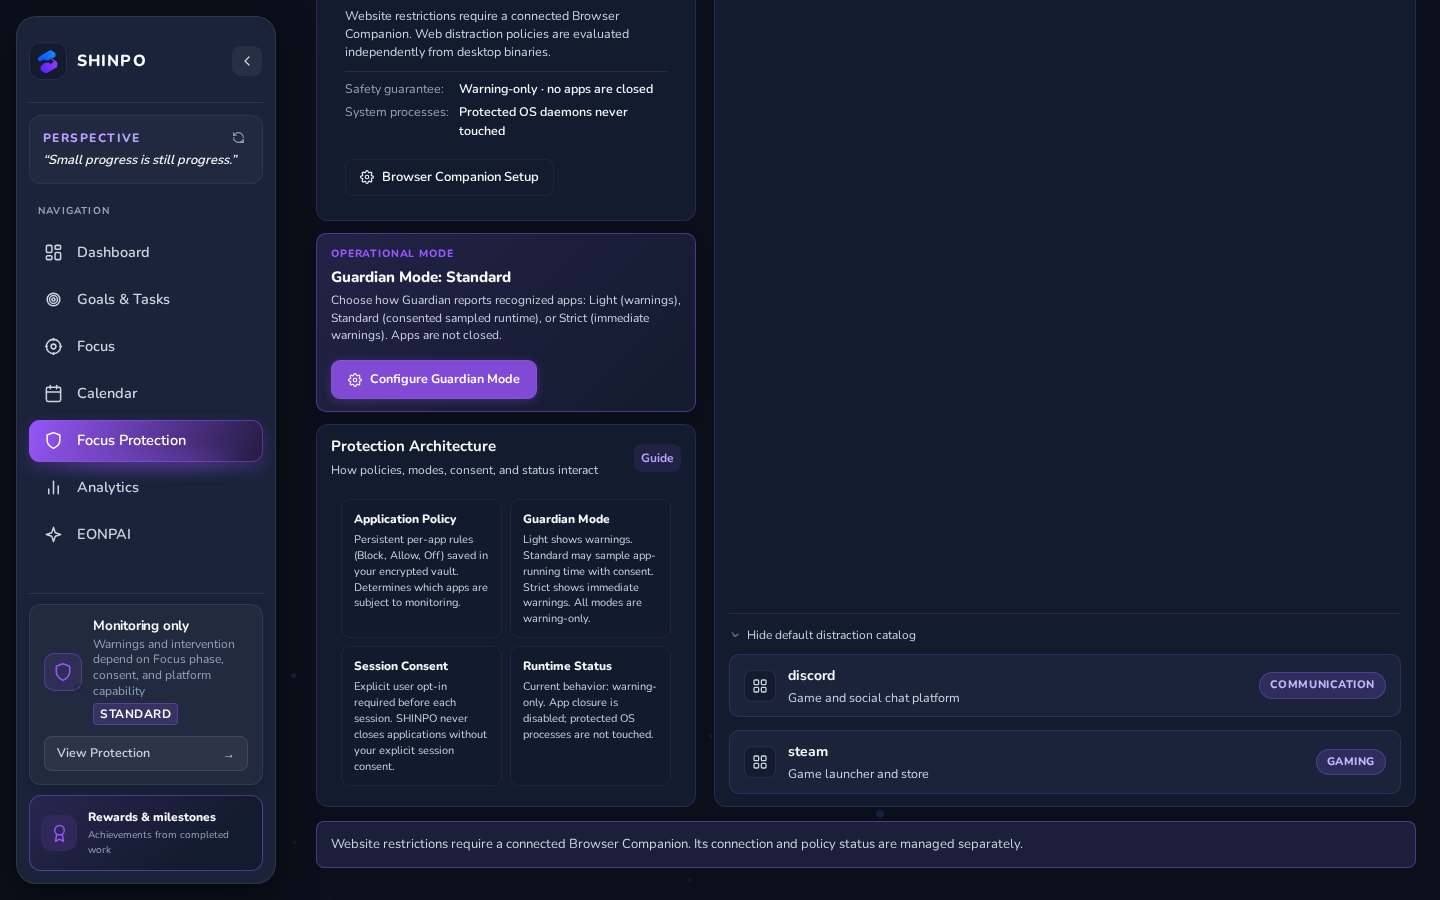
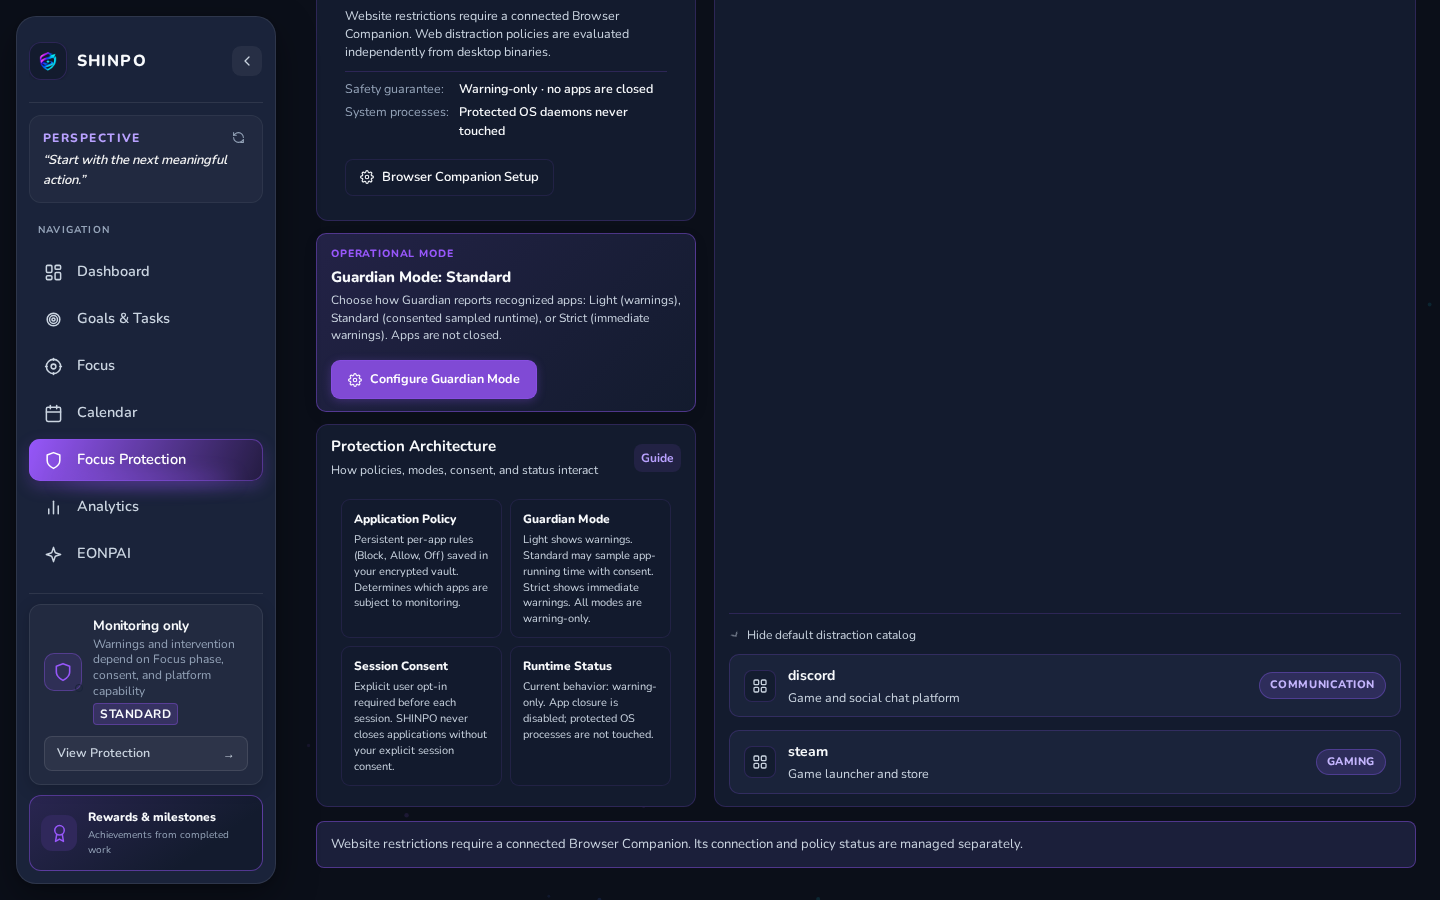
fix(ci): Install OSV-Scanner CLI and fix cargo-deny check arguments

Changed region(s): [[0.0, 0.1556, 0.1875, 0.6222], [0.0312, 0.0622, 0.0625, 0.0933]]

diff --git a/docs/qa/RELEASE_STATUS.md b/docs/qa/RELEASE_STATUS.md
@@ -53,14 +53,30 @@ To transition from **NO-GO** to **GO (Private Beta)**, the following gates must 
 
 ## 4. Hosted CI vs. Local Qualification
 
+### CI Job Results vs. Step Breakdown
+
+GitHub Actions CI (`.github/workflows/ci.yml`) is structured into three discrete jobs:
+
+| CI Job | Environment | Target & Responsibility | Current Status & Conclusion |
+| :--- | :--- | :--- | :---: |
+| **`desktop-linux`** | Ubuntu 24.04 | 19 discrete steps: Linux system dependencies, Rust 1.99.0 toolchain, `npm ci`, legacy backend verification, production npm audit, full dev npm audit log, `npm test`, `npm run lint`, `npm run build`, browser companion tests, Tauri bundle prep, Tauri Rust tests, strict Clippy, rustfmt, release desktop binary build, isolated native SQLCipher smoke test, Shield tests/Clippy/fmt, Browser Host tests/Clippy/fmt. | **PASS** |
+| **`desktop-windows`** | Windows 2025 | 18 discrete steps: MSVC C++ toolchain check, OpenSSL x64 vcpkg installation and environment linkage, `npm ci`, production npm audit, full dev npm audit log, `npm test`, `npm run lint`, `npm run build`, browser companion tests, Tauri bundle prep, Tauri Rust tests, strict Clippy, rustfmt, release desktop binary build, isolated native SQLCipher smoke test (`shinpo-desktop.exe --smoke-test`), Shield tests/Clippy/fmt, Browser Host tests/Clippy/fmt. | **PASS** |
+| **`security`** | Ubuntu 24.04 | 7 discrete steps: Full git history checkout, Gitleaks secret scan, Semgrep SAST scan, standalone OSV-Scanner CLI installation (`v1.9.2` with SHA256 checksum) and recursive dependency scan, toolchain setup & cargo-audit/cargo-deny installation, `cargo audit --deny unsound` across all three crate lockfiles, `cargo deny ... check bans sources`. | **ADVISORY FAILURE / NO-GO**<br>*(Genuine failure: `cargo audit --deny unsound` halts on transitive GLib `RUSTSEC-2024-0429`)* |
+
+### Verification Area Details
+
 | Verification Area | Hosted CI (GitHub Actions) | Local Host Environment | Notes |
 | :--- | :---: | :---: | :--- |
-| **Frontend TypeScript Build** | Verified (Ubuntu & Windows MSVC) | Verified (`tsc -b && vite build`) | Fixed Playwright TS2339 narrowing (`core-ui-repairs.spec.ts`). |
-| **Frontend Production Audit** | Verified (`npm audit --omit=dev`) | Verified (0 vulnerabilities) | Production bundle is 100% clean. |
-| **Frontend Dev Dependency Audit** | Documented in CI logs | Documented in `qa-security.mjs` | 39 advisories in dev/test tooling (`@wdio`, `puppeteer`, `eslint`). |
-| **Rust Tauri Core Tests** | Verified (Ubuntu & Windows MSVC) | Verified (85 passed, 0 failed) | Full encrypted storage & vault integration tests pass. |
-| **Rust Shield Daemon Tests** | Verified (Ubuntu) | Verified (51 lib, 40 main pass) | Platform interceptor and app discovery tests pass. |
-| **SQLCipher Cryptographic Integrity**| Not run in CI | Verified (HMAC tamper rejection pass)| Tampered ciphertext is rejected without plaintext fallback. |
+| **Frontend TypeScript Build** | Verified (Ubuntu & Windows MSVC jobs) | Verified (`tsc -b && vite build`) | Fixed Playwright TS2339 narrowing (`core-ui-repairs.spec.ts`). |
+| **Frontend Production Audit** | Verified (`npm audit --omit=dev --audit-level=high`) | Verified (0 vulnerabilities) | Production bundle is 100% clean across all jobs. |
+| **Frontend Dev Dependency Audit** | Documented in CI job logs | Documented in `qa-security.mjs` | 39 advisories in dev/test tooling (`@wdio`, `puppeteer`, `eslint`). |
+| **Rust Tauri Core Tests** | Verified (Ubuntu & Windows MSVC jobs) | Verified (85 passed, 0 failed) | Full encrypted storage & vault integration tests pass. |
+| **Rust Shield Daemon Tests** | Verified (Ubuntu & Windows MSVC jobs) | Verified (51 lib, 40 main pass) | Platform interceptor and app discovery tests pass. |
+| **Rust Browser Host Tests** | Verified (Ubuntu & Windows MSVC jobs) | Verified (9 passed, 0 failed) | Native messaging host framing & pairing tests pass. |
+| **Secret Scanning (Gitleaks)** | Verified in `security` job | Verified (`gitleaks dir --config .gitleaks.toml`) | 0 leaks found across repository. |
+| **Semgrep SAST** | Verified in `security` job | Not run locally | Scans rulesets `p/default`, `p/secrets`, `p/security-audit`. |
+| **OSV-Scanner** | Verified in `security` job (`osv-scanner -r .`) | Verified (`/tmp/osv-scanner -r .`) | Corrected from broken action metadata to verified CLI v1.9.2. |
+| **SQLCipher Cryptographic Integrity**| Verified (`--smoke-test` on Linux & Windows) | Verified (HMAC tamper rejection pass)| Tampered ciphertext is rejected without plaintext fallback. |
 | **Native WebKitGTK User Journey** | Not run in CI (headless) | Verified (`complete-user-journeys`) | Local account, Goals, Tasks, Focus, Rewards, EONPAI pass. |
 | **Browser Companion Integration** | Not run in CI | Verified (12/12 acceptance points) | Pairing code handshake, policy push, modal intervention, release pass. |
 
